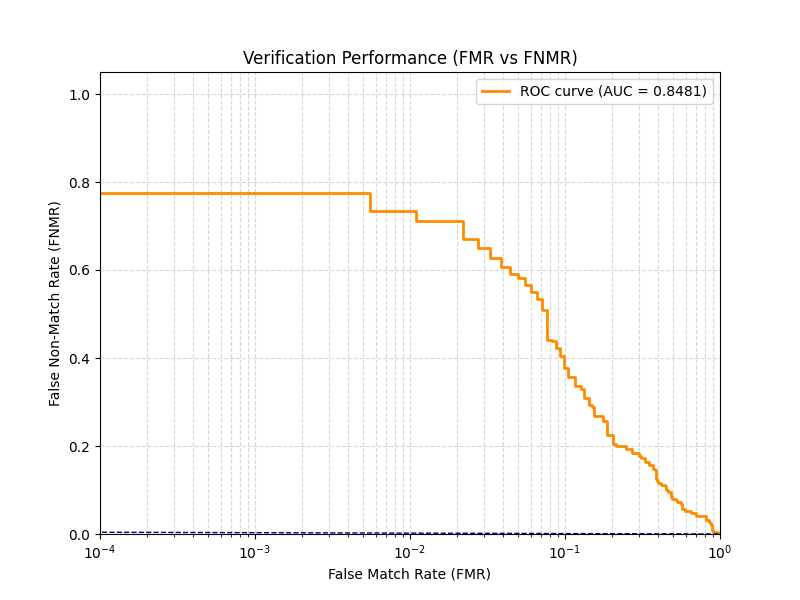
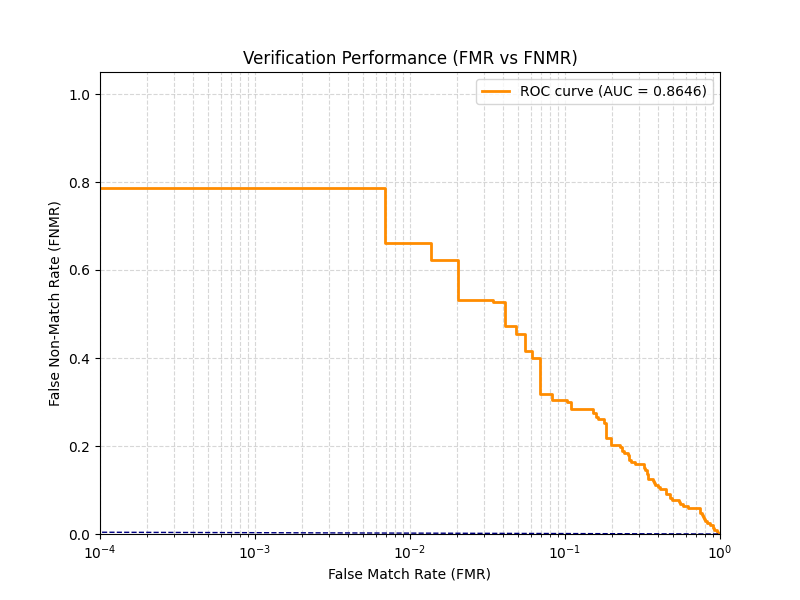
experiment: quality selection with localization overflow fix

diff --git a/src/ImageEnhancement.py b/src/ImageEnhancement.py
@@ -9,58 +9,133 @@ import cv2
 import numpy as np
 
 def enhance_image(norm_img: np.ndarray) -> np.ndarray:
-    M, N = norm_img.shape
-    
-    # 1. Illumination correction
-    # Coarse estimate of background using 16x16 block means [cite: 286]
-    coarse_bg = np.zeros((M // 16, N // 16), dtype=np.float32)
-    for i in range(M // 16):
-        for j in range(N // 16):
-            block = norm_img[i*16:(i+1)*16, j*16:(j+1)*16]
-            coarse_bg[i, j] = np.mean(block)
-            
-    # Expand via bicubic interpolation [cite: 287]
-    bg_illumination = cv2.resize(coarse_bg, (N, M), interpolation=cv2.INTER_CUBIC)
-    
-    # Subtract to compensate for lighting [cite: 288]
-    corrected_img = cv2.normalize(
-        norm_img.astype(np.float32) - bg_illumination,
-        None, 0, 255, cv2.NORM_MINMAX
-    ).astype(np.uint8)
-    
-    # 2. Contrast enhancement
-    # Histogram equalization in 32x32 regions (CLAHE is a modern standard equivalent) [cite: 289]
-    clahe = cv2.createCLAHE(clipLimit=2.0, tileGridSize=(M//32, N//32))
-    enhanced_img = clahe.apply(corrected_img)
-    
-    return enhanced_img
+    """
+    Enhance normalized iris image.
 
-def compute_quality(enh_img):
-    # use ROI (same as feature extraction)
-    roi = enh_img[0:48, :]
+    Steps:
+    1. Estimate background illumination using 16x16 block means
+    2. Upsample background map to full image size
+    3. Subtract background
+    4. Apply CLAHE for local contrast enhancement
+    """
+    img = norm_img.astype(np.float32)
+    M, N = img.shape
 
-    # FFT
-    F = np.fft.fftshift(np.fft.fft2(roi))
-    magnitude = np.abs(F)
+    # 1) Estimate coarse background using 16x16 blocks
+    block_h, block_w = 16, 16
+    bg_small = np.zeros((max(1, M // block_h), max(1, N // block_w)), dtype=np.float32)
 
+    for i in range(bg_small.shape[0]):
+        for j in range(bg_small.shape[1]):
+            r0, r1 = i * block_h, min((i + 1) * block_h, M)
+            c0, c1 = j * block_w, min((j + 1) * block_w, N)
+            bg_small[i, j] = np.mean(img[r0:r1, c0:c1])
+
+    # 2) Resize background map back to full size
+    bg = cv2.resize(bg_small, (N, M), interpolation=cv2.INTER_CUBIC)
+
+    # 3) Illumination correction
+    corrected = img - bg
+    corrected = corrected - corrected.min()
+    if corrected.max() > 0:
+        corrected = corrected / corrected.max() * 255.0
+    corrected = corrected.astype(np.uint8)
+
+    # 4) Local contrast enhancement (CLAHE)
+    clahe = cv2.createCLAHE(clipLimit=2.0, tileGridSize=(8, 8))
+    enhanced = clahe.apply(corrected)
+
+    return enhanced
+
+
+def _band_energy(magnitude: np.ndarray, r_low: float, r_high: float) -> float:
+    """
+    Sum FFT magnitude within an annular frequency band [r_low, r_high).
+    """
     h, w = magnitude.shape
     cy, cx = h // 2, w // 2
 
-    Y, X = np.ogrid[:h, :w]
-    r = np.sqrt((Y - cy)**2 + (X - cx)**2)
+    y, x = np.ogrid[:h, :w]
+    r = np.sqrt((y - cy) ** 2 + (x - cx) ** 2)
 
-    # frequency bands (paper: (0,6), (6,22), (22,32))
-    F1 = magnitude[(r >= 0) & (r < 6)].sum()
-    F2 = magnitude[(r >= 6) & (r < 22)].sum()
-    F3 = magnitude[(r >= 22) & (r < 32)].sum()
+    mask = (r >= r_low) & (r < r_high)
+    return float(np.sum(magnitude[mask]))
+
+
+def compute_patch_quality(patch: np.ndarray):
+    """
+    Compute quality descriptor for one local patch.
+
+    Returns:
+        total_power: F1 + F2 + F3
+        ratio: F2 / (F1 + F3 + eps)
+    """
+    patch = patch.astype(np.float32)
+
+    # 2D FFT
+    F = np.fft.fftshift(np.fft.fft2(patch))
+    mag = np.abs(F)
+
+    # Three radial bands following the paper's spirit
+    F1 = _band_energy(mag, 0, 6)
+    F2 = _band_energy(mag, 6, 22)
+    F3 = _band_energy(mag, 22, 32)
 
     total_power = F1 + F2 + F3
     ratio = F2 / (F1 + F3 + 1e-6)
 
     return total_power, ratio
 
-def is_good_quality(enh_img):
+
+def compute_quality(enh_img: np.ndarray):
+    """
+    Compute image quality using two local iris patches and average them.
+
+    Current design:
+    - use the upper 48 rows (aligned with your current stable iris ROI)
+    - take two horizontal 64-column patches from the middle-left and middle-right
+
+    Returns:
+        avg_total_power, avg_ratio
+    """
+    h, w = enh_img.shape
+
+    # Keep the vertical region consistent with your current stable feature ROI
+    row_start = 0
+    row_end = min(48, h)
+
+    # Patch width
+    patch_w = 64
+
+    # Two horizontal patches, avoiding extreme borders
+    # Adjust these later if needed, but this is a good starting point
+    c1_start = max(32, w // 4 - patch_w // 2)
+    c2_start = min(w - patch_w - 32, 3 * w // 4 - patch_w // 2)
+
+    patch1 = enh_img[row_start:row_end, c1_start:c1_start + patch_w]
+    patch2 = enh_img[row_start:row_end, c2_start:c2_start + patch_w]
+
+    q1_total, q1_ratio = compute_patch_quality(patch1)
+    q2_total, q2_ratio = compute_patch_quality(patch2)
+
+    avg_total = (q1_total + q2_total) / 2.0
+    avg_ratio = (q1_ratio + q2_ratio) / 2.0
+
+    return avg_total, avg_ratio
+
+
+def is_good_quality(enh_img: np.ndarray, debug: bool = False) -> bool:
+    """
+    Rule-based quality decision.
+
+    NOTE:
+    These thresholds are starting points only.
+    After running a batch once, print/debug the values and retune if needed.
+    """
     total_power, ratio = compute_quality(enh_img)
 
-    # thresholds
-    return (total_power > 1e6) and (ratio > 0.7)
+    if debug:
+        print(f"[QUALITY] total_power={total_power:.2f}, ratio={ratio:.4f}")
+
+    # Initial thresholds: you will likely need to tune these
+    return (total_power > 3.0e6) and (ratio > 0.95)

diff --git a/src/IrisLocalization.py b/src/IrisLocalization.py
@@ -54,7 +54,7 @@ def localize_iris(img: np.ndarray, config=None) -> Tuple[Tuple[int, int, int], T
             param1=100, param2=p2, minRadius=90, maxRadius=130
         )
         if circles is not None:
-            circles = np.uint16(np.around(circles[0, :]))
+            circles = np.round(circles[0, :]).astype(int)
             best = min(circles, key=lambda c: (c[0]-xp)**2 + (c[1]-yp)**2)
             iris_params = (int(best[0]), int(best[1]), int(best[2]))
             break
